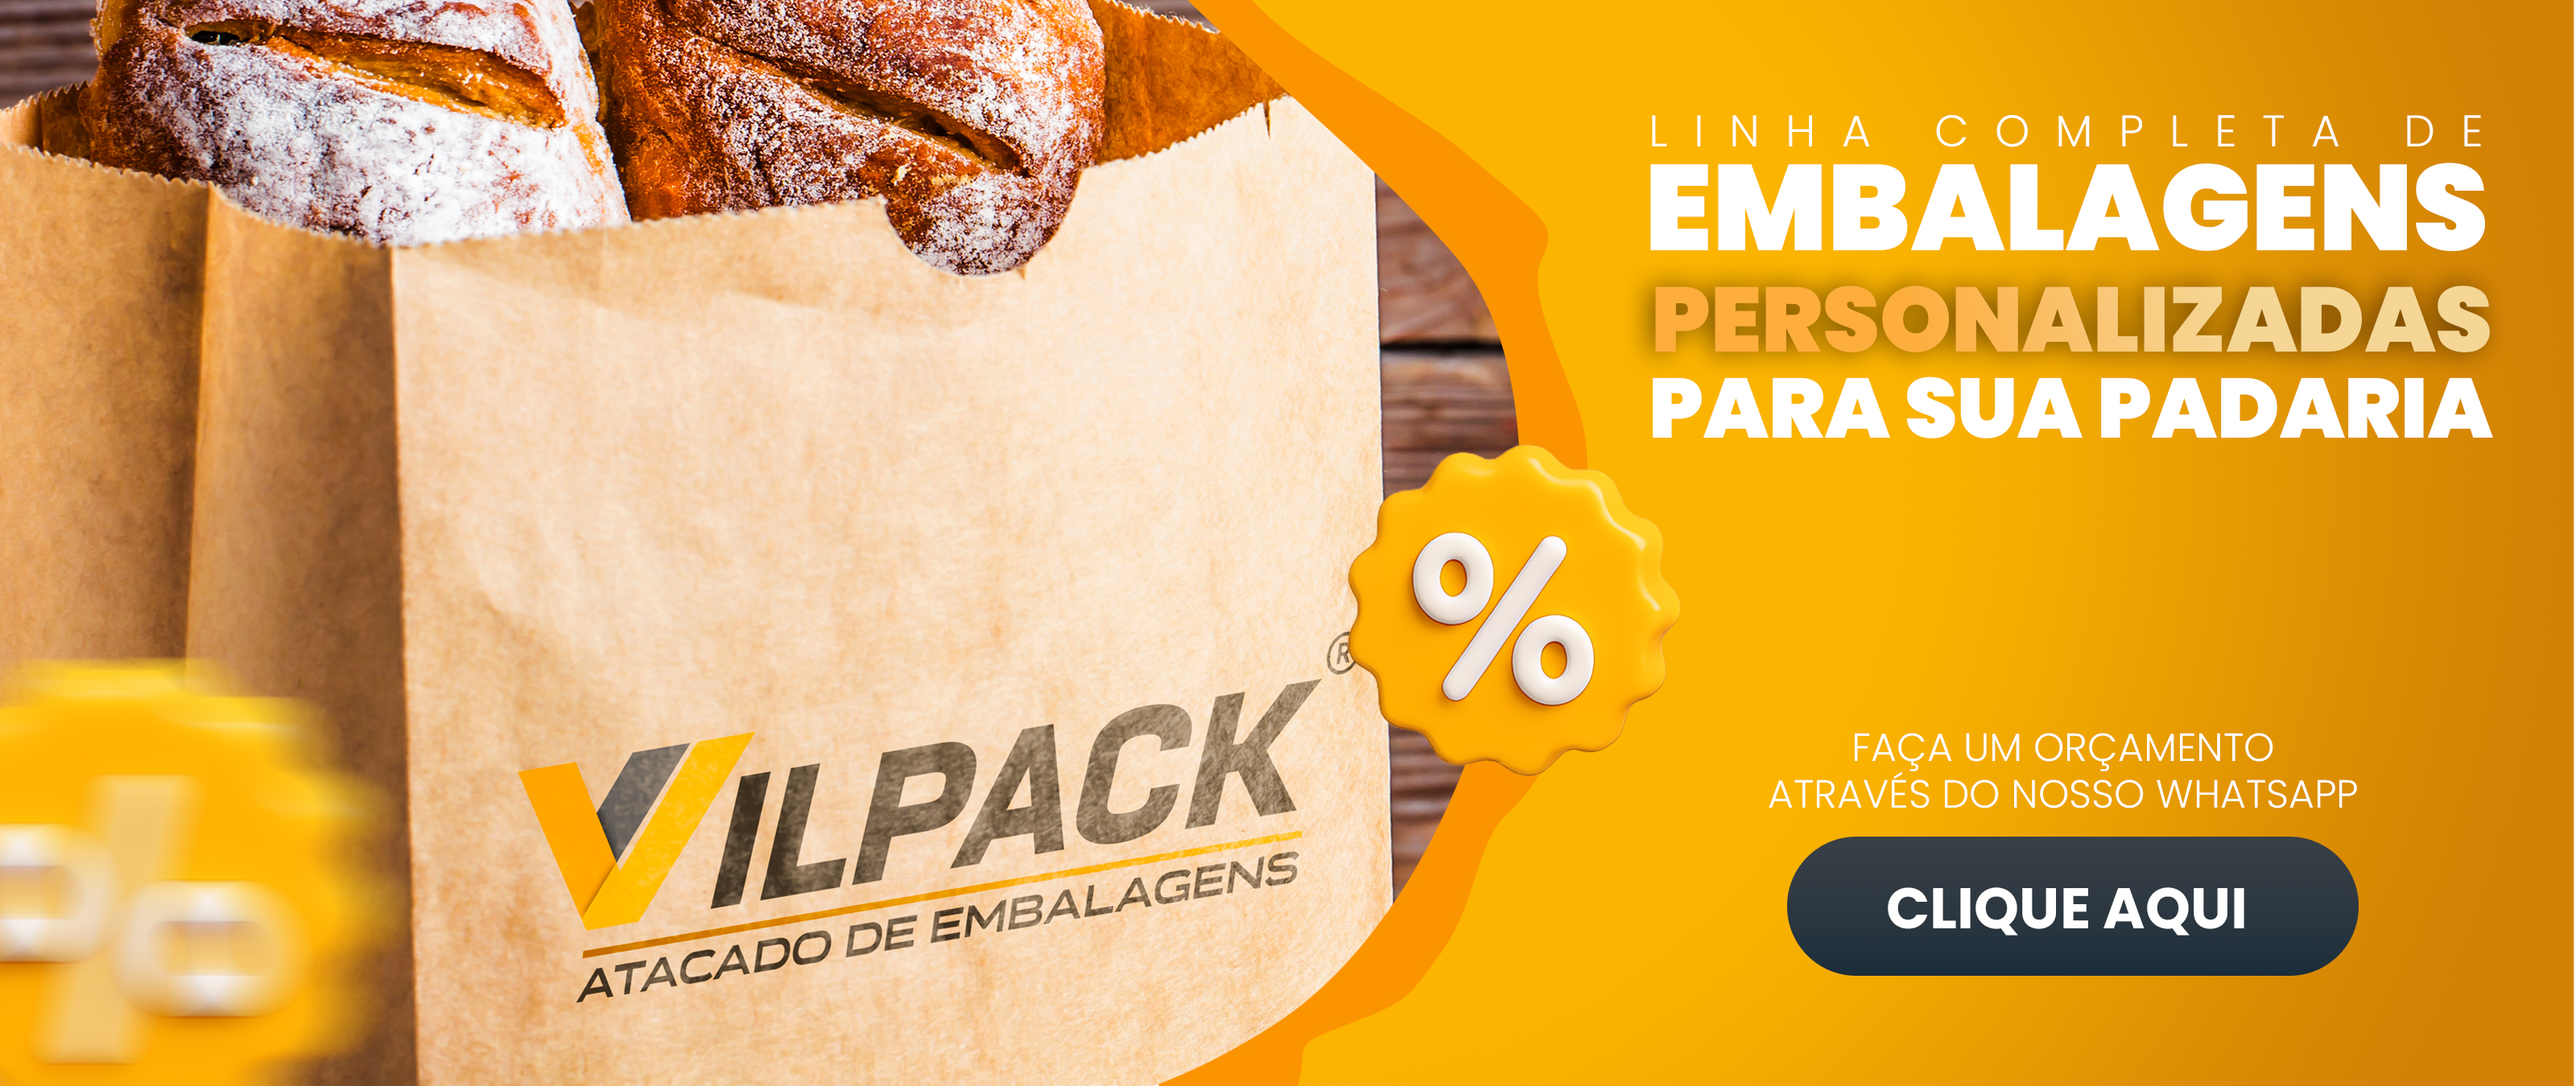
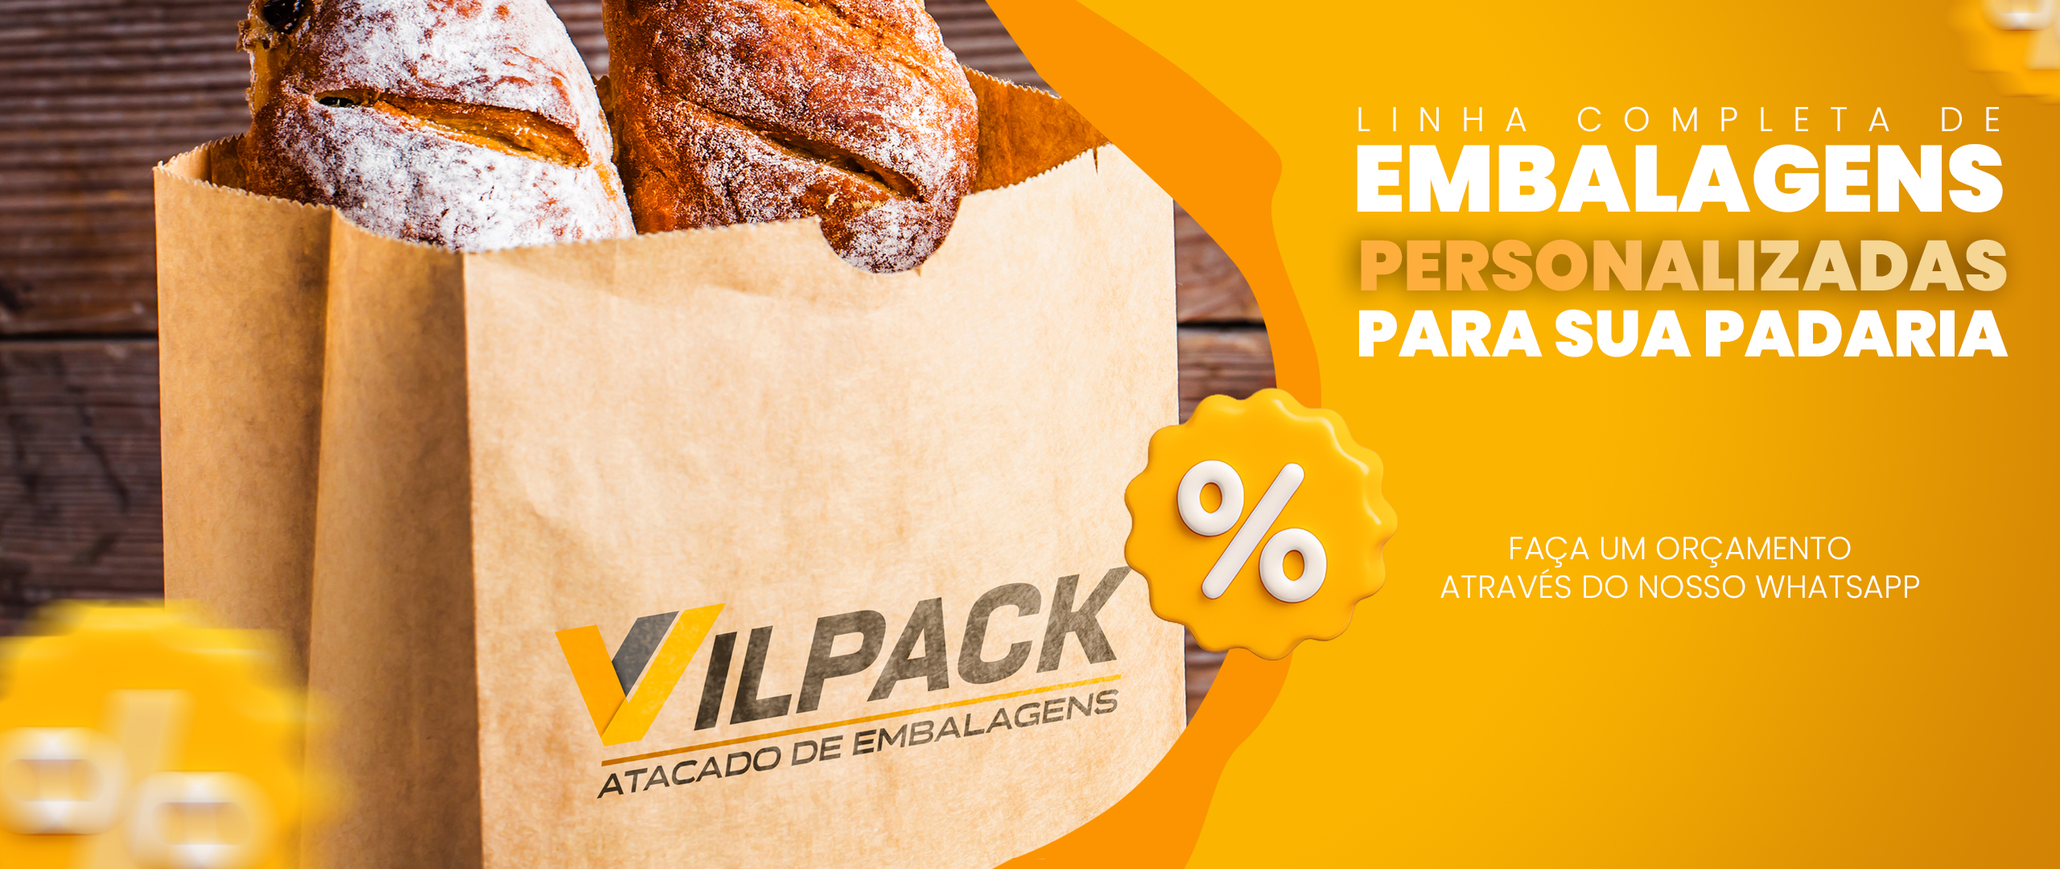
feat: redesign mobile carousel with footer button strategy and update images

diff --git a/src/components/HeroCarousel.tsx b/src/components/HeroCarousel.tsx
@@ -15,17 +15,32 @@ const heroSlides = [
   {
     id: 1,
     image: "/slide_sacola.jpg",
-    alt: "Saco Kraft Vilpack"
+    mobileImage: "/slide_sacola_mobile.jpg",
+    alt: "Saco Kraft Vilpack",
+    buttonColor: "primary",
+    desktopTop: "82%",
+    desktopLeft: "83%",
+    mobileBg: "#27272a" // Zinc-800 equivalent for dark gray
   },
   {
     id: 2,
     image: "/slide_pao.jpg",
-    alt: "Sacos de Pão"
+    mobileImage: "/slide_pao_mobile.jpg", // Fallback enquanto não temos a imagem mobile específica
+    alt: "Sacos de Pão",
+    buttonColor: "dark",
+    desktopTop: "75%",
+    desktopLeft: "81%",
+    mobileBg: "hsl(42 97% 53%)" // Primary Yellow
   },
   {
     id: 3,
-    image: "https://images.unsplash.com/photo-1586528116311-ad8dd3c8310d?q=80&w=2070&auto=format&fit=crop",
-    alt: "Depósito de caixas de papelão"
+    image: "/slide_sacola.jpg",
+    mobileImage: "/slide_sacola_mobile.jpg",
+    alt: "Saco Kraft Vilpack (Extra)",
+    buttonColor: "primary",
+    desktopTop: "82%",
+    desktopLeft: "83%",
+    mobileBg: "#27272a"
   }
 ];
 
@@ -65,25 +80,73 @@ const HeroCarousel = () => {
       >
         <CarouselContent className="h-screen mt-0 ml-0">
           {heroSlides.map((slide) => (
-            <CarouselItem key={slide.id} className="h-screen w-full flex-shrink-0 relative p-0 border-0 pl-0 pt-0">
-              {/* Background Image */}
-              <img 
-                src={slide.image} 
-                alt={slide.alt} 
-                className="absolute inset-0 w-full h-full object-cover z-0" 
-              />
-              {/* Overlay suave para legibilidade do menu (opcional, já que removemos textos) */}
-              <div className="absolute inset-0 bg-black/20 z-0" />
+            <CarouselItem key={slide.id} className="h-screen w-full flex-shrink-0 relative p-0 border-0 pl-0 pt-0 bg-black">
+              
+              {/* --- MOBILE VIEW --- */}
+              <div className="md:hidden flex flex-col w-full h-full bg-black">
+                {/* Main Mobile Image - Contain & Full Width */}
+                <div className="flex-1 w-full relative bg-black overflow-hidden">
+                  <img 
+                    src={slide.mobileImage || slide.image} 
+                    alt={slide.alt} 
+                    className="w-full h-full object-contain object-bottom"
+                  />
+                </div>
 
-              {/* Overlay de Transição Suave (Fade para Preto na base) */}
-              <div 
-                className="absolute bottom-0 left-0 w-full h-64 pointer-events-none z-10" 
-                style={{ 
-                  background: 'linear-gradient(to bottom, rgba(0,0,0,0) 0%, rgba(0,0,0,0.4) 40%, rgba(0,0,0,0.8) 75%, rgba(0,0,0,1) 100%)', 
-                  maskImage: 'linear-gradient(to bottom, transparent, black 50%)', 
-                  WebkitMaskImage: 'linear-gradient(to bottom, transparent, black 50%)' 
-                }} 
-              />
+                {/* Footer Button Container - Matches Slide Footer Color */}
+                <div 
+                  className="w-full py-8 flex justify-center items-center shrink-0 z-20"
+                  style={{ backgroundColor: slide.mobileBg }}
+                >
+                  <Button 
+                    size="lg" 
+                    asChild 
+                    className={`text-lg font-bold uppercase tracking-wider px-10 py-7 rounded-full shadow-[0_4px_14px_0_rgba(0,0,0,0.39)] hover:shadow-[0_6px_20px_rgba(0,0,0,0.23)] hover:-translate-y-1 transition-all duration-300 border-2 border-white/20 backdrop-blur-sm
+                      ${slide.buttonColor === 'dark' 
+                        ? 'bg-zinc-800 hover:bg-zinc-900 text-white' 
+                        : 'bg-primary hover:bg-primary/90 text-zinc-900'
+                      }`}
+                  >
+                    <a href="#produtos">Clique Aqui</a>
+                  </Button>
+                </div>
+              </div>
+
+              {/* --- DESKTOP VIEW (Banner Implementation) --- */}
+              {/* Estrutura do Container: relative, width: 100%, overflow: hidden */}
+              <div className="hidden md:block relative w-full overflow-hidden">
+                {/* A Imagem: width: 100%, height: auto, display: block */}
+                <img 
+                  src={slide.image} 
+                  alt={slide.alt} 
+                  className="w-full h-auto block"
+                />
+                
+                {/* O Botão (Absolute): Positioned dynamically */}
+                <div 
+                  className="absolute z-20"
+                  style={{ 
+                    top: slide.desktopTop, 
+                    left: slide.desktopLeft, 
+                    transform: 'translate(-50%, -50%)' 
+                  }}
+                >
+                  <Button 
+                    size="lg" 
+                    asChild 
+                    className={`text-lg font-bold uppercase tracking-wider px-10 py-7 rounded-full shadow-[0_4px_14px_0_rgba(0,0,0,0.39)] hover:shadow-[0_6px_20px_rgba(0,0,0,0.23)] hover:-translate-y-1 transition-all duration-300 border-2 border-white/20 backdrop-blur-sm
+                      ${slide.buttonColor === 'dark' 
+                        ? 'bg-zinc-800 hover:bg-zinc-900 text-white' 
+                        : 'bg-primary hover:bg-primary/90 text-zinc-900'
+                      }`}
+                  >
+                    <a href="#produtos">
+                      Clique Aqui
+                    </a>
+                  </Button>
+                </div>
+              </div>
+
             </CarouselItem>
           ))}
         </CarouselContent>
